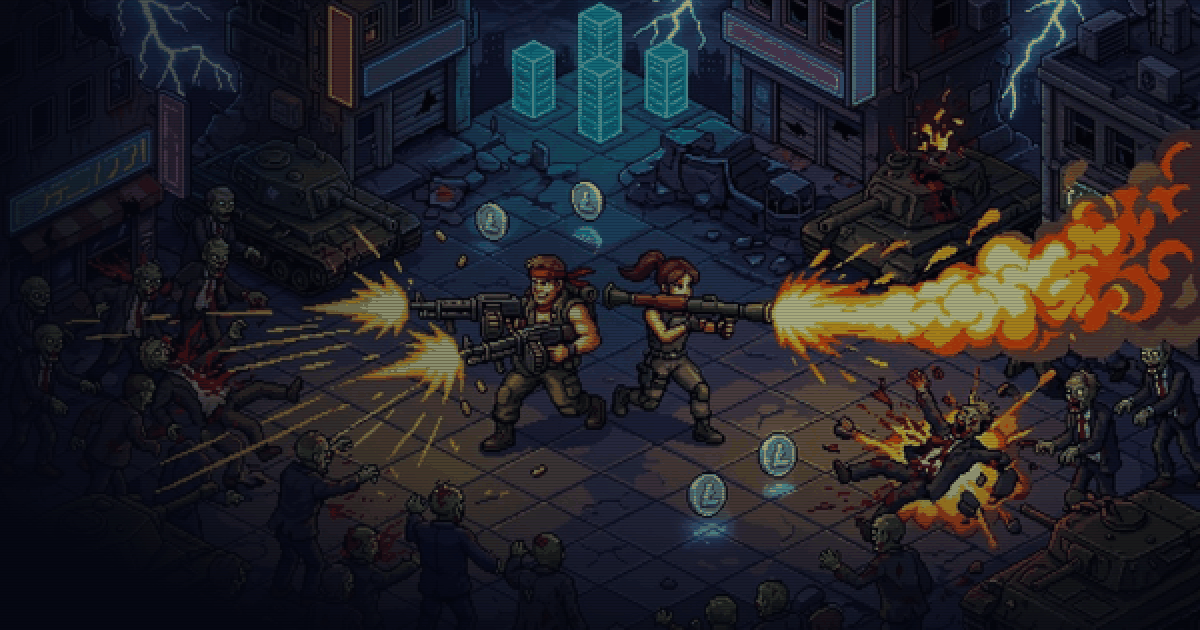
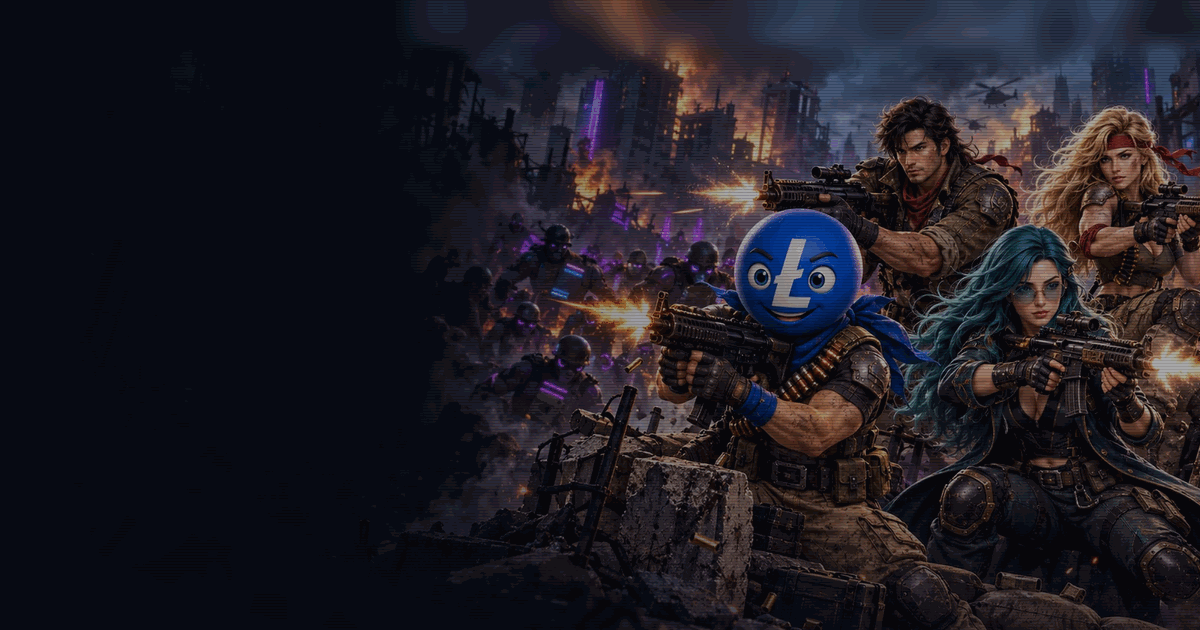
feat(share): HMH share cards use the owner's Ranked and Free share covers
- scripts/build-share-card-backgrounds.py: lester-blaster.png now comes from
  HMH-RankedMode-Share at full resolution (the pixel-doubled 192-colour path
  greyed the violet glow and coarsened faces), moved 44 px down and 60 px
  right so the heroes clear the status pill and the score; 256-colour palette,
  213,934 B. New lester-blaster-free.png (HMH-FreeMode-Share, same
  treatment) for the Free share card on fable/free-share. --only rebuilds
  selected cards; chikun.png and stacked.png are byte-identical.
- server/share/card-art.mjs records the HMH background's art revision and
  SHA-256; cardRevision folds the revision in (only when present), so every
  HMH cardRev, share-page og:image ?v= and stale-link 302 moves to the new
  image while Chikun and STACKED revisions (9aad35cebaa9) stay put.
- tests/neon-queries.test.mjs: the HMH expected revision now includes
  art: 'hmh-art-2026-09-26' (deliberate: the card image changed).
  tests/share-card-art.test.mjs pins hash, revision scope and sizes.

diff --git a/scripts/build-share-card-backgrounds.py b/scripts/build-share-card-backgrounds.py
@@ -4,15 +4,24 @@ The card renderer (server/share/render-card.mjs, api/share-card.mjs) paints the
 score, handle, standing, stats and badges over one background per game. This
 script derives those backgrounds from key art that is already committed:
 
-  lester-blaster  apps/portal/assets/generated/hmh-banners/hard-money-heroes-ranked-banner.jpg
-  chikun          apps/portal/assets/generated/chikun-mode-select/chikuns-escape-ranked-mode.webp
-  stacked         apps/portal/assets/stacked-mode-select/stacked-ranked-v1.png
+  lester-blaster       apps/portal/assets/hmh-art/share/hmh-rankedmode-share-1600.webp  (Ranked share cover)
+  lester-blaster-free  apps/portal/assets/hmh-art/share/hmh-freemode-share-1600.webp    (Free share cover)
+  chikun               apps/portal/assets/generated/chikun-mode-select/chikuns-escape-ranked-mode.webp
+  stacked              apps/portal/assets/stacked-mode-select/stacked-ranked-v1.png
 
-Each source is cover-cropped to 1200x630, pixel-doubled (600x315 art scaled
-up with nearest neighbour: the arcade's chunky pixel look, and a quarter of
-the detail to store), darkened towards the left and the bottom (where the
-card text sits), given a faint CRT scanline, and written as an adaptive
-palette PNG under 300 KB to apps/portal/assets/share-cards/.
+Each source is cover-cropped to 1200x630, darkened towards the left and the
+bottom (where the card text sits), given a faint CRT scanline, and written as
+an adaptive palette PNG under 300 KB to apps/portal/assets/share-cards/.
+Chikun and STACKED are pixel-doubled first (600x315 art scaled up with nearest
+neighbour: the arcade's chunky pixel look). The Hard Money Heroes covers
+(owner art, 2026-09-26; scripts/build-hmh-banner-art.py writes their 1600 px
+sources) keep full resolution: pixel-doubling turned the violet horde glow grey
+and coarsened the faces. They use up to 256 colours and stay at or under
+280,000 bytes. Changing lester-blaster.png changes every HMH Ranked card, so
+server/share/card-art.mjs records its SHA-256 and art revision (the card's
+cache key; tests/share-card-art.test.mjs fails when they drift).
+lester-blaster-free.png is the Free share card background for the Free share
+branch (fable/free-share: api/free-card.mjs BACKGROUNDS['lester-blaster']).
 No raw sources are added to the repo (AGENTS.md asset hygiene).
 
 It also mirrors the achievement badge art the card draws. The card function
@@ -31,12 +40,13 @@ Usage:
 from __future__ import annotations
 
 import argparse
+import io
 import json
 import subprocess
 import sys
 from pathlib import Path
 
-from PIL import Image, ImageDraw
+from PIL import Image, ImageDraw, ImageFilter
 
 ROOT = Path(__file__).resolve().parents[1]
 OUT_DIR = ROOT / "apps" / "portal" / "assets" / "share-cards"
@@ -48,11 +58,14 @@ WIDTH, HEIGHT = 1200, 630
 MAX_BYTES = 300_000
 PALETTE_COLORS = 192
 
+FULL_MAX_BYTES = 280_000
+
 SOURCES = {
-    # gameId: (source path, horizontal focus 0..1, vertical focus 0..1)
-    "lester-blaster": ("apps/portal/assets/generated/hmh-banners/hard-money-heroes-ranked-banner.jpg", 0.5, 0.45),
-    "chikun": ("apps/portal/assets/generated/chikun-mode-select/chikuns-escape-ranked-mode.webp", 0.45, 0.5),
-    "stacked": ("apps/portal/assets/stacked-mode-select/stacked-ranked-v1.png", 0.62, 0.5),
+    # card id: (source path, horizontal focus 0..1, vertical focus 0..1, pixel-doubled)
+    "lester-blaster": ("apps/portal/assets/hmh-art/share/hmh-rankedmode-share-1600.webp", 0.74, 0.0, False),
+    "lester-blaster-free": ("apps/portal/assets/hmh-art/share/hmh-freemode-share-1600.webp", 0.73, 0.0, False),
+    "chikun": ("apps/portal/assets/generated/chikun-mode-select/chikuns-escape-ranked-mode.webp", 0.45, 0.5, True),
+    "stacked": ("apps/portal/assets/stacked-mode-select/stacked-ranked-v1.png", 0.62, 0.5, True),
 }
 
 
@@ -86,15 +99,57 @@ def scanlines(image: Image.Image) -> Image.Image:
     return Image.alpha_composite(image.convert("RGBA"), overlay)
 
 
+# The HMH covers put the heroes' faces in the top fifth of the frame, where the
+# card's status pill sits (top right, about y 44-104), and the nearest hero at
+# x ~700, where the score ends. The art moves down by PILL_DROP px and right by
+# SCORE_SHIFT px; the bands it leaves are the art's own edges, blurred, under
+# the legibility mask (which is strongest on the left anyway).
+PILL_DROP = 44
+SCORE_SHIFT = 60
+
+
+def drop_below_status_pill(art: Image.Image) -> Image.Image:
+    band = art.crop((0, 0, WIDTH, PILL_DROP)).resize((WIDTH, PILL_DROP), Image.Resampling.LANCZOS)
+    base = art.resize((WIDTH, HEIGHT), Image.Resampling.LANCZOS).filter(ImageFilter.GaussianBlur(14))
+    base.paste(band.filter(ImageFilter.GaussianBlur(10)), (0, 0))
+    base.paste(art.crop((0, 0, WIDTH - SCORE_SHIFT, HEIGHT - PILL_DROP)), (SCORE_SHIFT, PILL_DROP))
+    edge = Image.new("L", (WIDTH, HEIGHT), 0)
+    ImageDraw.Draw(edge).rectangle((0, 0, WIDTH, PILL_DROP + 18), fill=255)
+    ImageDraw.Draw(edge).rectangle((0, 0, SCORE_SHIFT + 18, HEIGHT), fill=255)
+    edge = edge.filter(ImageFilter.GaussianBlur(10))
+    blurred_top = base.filter(ImageFilter.GaussianBlur(8))
+    return Image.composite(blurred_top, base, edge)
+
+
 def build_background(game_id: str) -> Image.Image:
-    source, focus_x, focus_y = SOURCES[game_id]
+    source, focus_x, focus_y, pixel_doubled = SOURCES[game_id]
     with Image.open(ROOT / source) as raw:
         art = cover_crop(raw.convert("RGB"), focus_x, focus_y)
-    art = art.resize((WIDTH // 2, HEIGHT // 2), Image.Resampling.LANCZOS).resize((WIDTH, HEIGHT), Image.Resampling.NEAREST)
+    if pixel_doubled:
+        art = art.resize((WIDTH // 2, HEIGHT // 2), Image.Resampling.LANCZOS).resize((WIDTH, HEIGHT), Image.Resampling.NEAREST)
+    else:
+        art = drop_below_status_pill(art)
     navy = Image.new("RGB", (WIDTH, HEIGHT), (5, 7, 18))
     darkened = Image.composite(navy, art, legibility_mask())
     lined = scanlines(darkened).convert("RGB")
-    return lined.quantize(colors=PALETTE_COLORS, method=Image.Quantize.MEDIANCUT)
+    if pixel_doubled:
+        return lined.quantize(colors=PALETTE_COLORS, method=Image.Quantize.MEDIANCUT)
+    return lined
+
+
+def encode_background(game_id: str) -> bytes:
+    """PNG bytes; the full-resolution HMH covers step their palette down until they fit."""
+    image = build_background(game_id)
+    if image.mode == "P":
+        buffer = io.BytesIO()
+        image.save(buffer, format="PNG", optimize=True)
+        return buffer.getvalue()
+    for colors in (256, 224, 192, 160, 128):
+        buffer = io.BytesIO()
+        image.quantize(colors=colors, method=Image.Quantize.FASTOCTREE, dither=Image.Dither.NONE).save(buffer, format="PNG", optimize=True)
+        if buffer.tell() <= FULL_MAX_BYTES:
+            break
+    return buffer.getvalue()
 
 
 def check(path: Path) -> list[str]:
@@ -173,14 +228,19 @@ def main() -> int:
     parser = argparse.ArgumentParser(description=__doc__.splitlines()[0])
     parser.add_argument("--check", action="store_true", help="verify the committed PNGs without rewriting them")
     parser.add_argument("--badges-only", action="store_true", help="sync the badge copies and leave the backgrounds as they are")
+    parser.add_argument("--only", default="", help="comma-separated card ids to rebuild (the others are only checked)")
     args = parser.parse_args()
+    only = {item for item in args.only.split(",") if item}
+    unknown = only - set(SOURCES)
+    if unknown:
+        parser.error(f"unknown card ids: {', '.join(sorted(unknown))}")
     problems: list[str] = []
     if not args.check:
         OUT_DIR.mkdir(parents=True, exist_ok=True)
     for game_id in SOURCES:
         path = OUT_DIR / f"{game_id}.png"
-        if not args.check and not args.badges_only:
-            build_background(game_id).save(path, format="PNG", optimize=True)
+        if not args.check and not args.badges_only and (not only or game_id in only):
+            path.write_bytes(encode_background(game_id))
         problems.extend(check(path))
         if path.exists():
             print(f"{path.relative_to(ROOT).as_posix()}: {path.stat().st_size} bytes")
